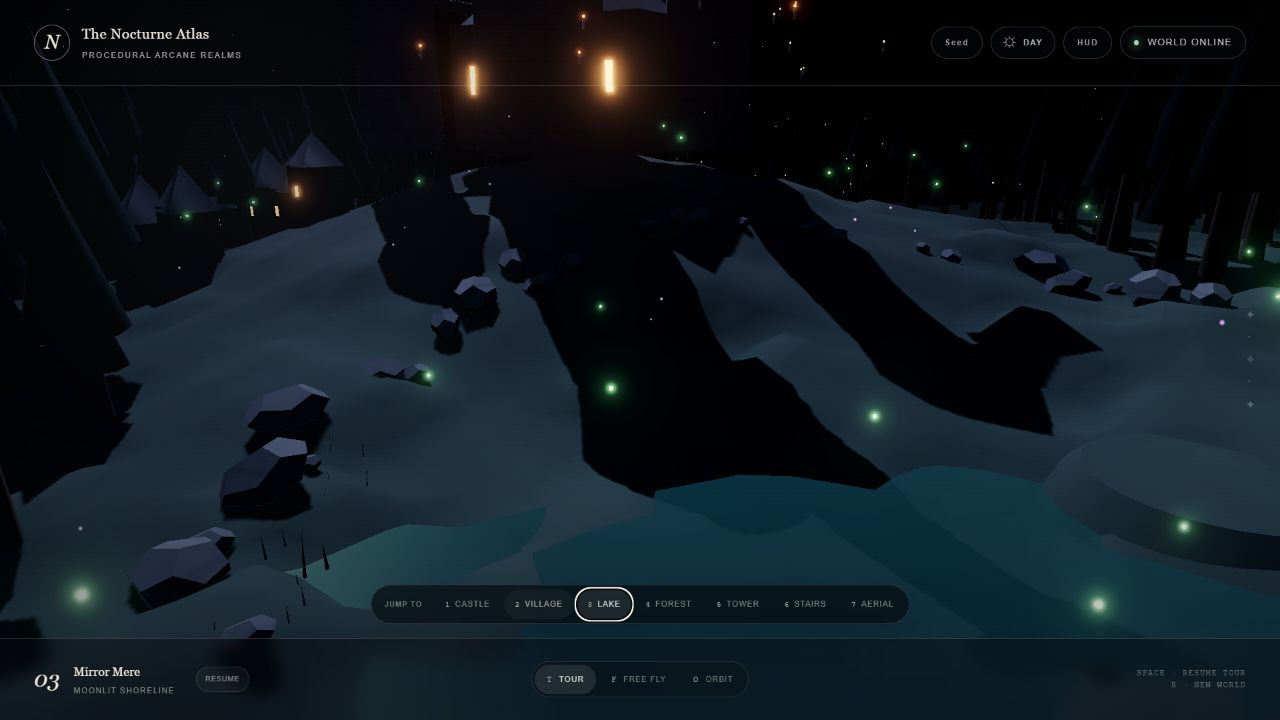
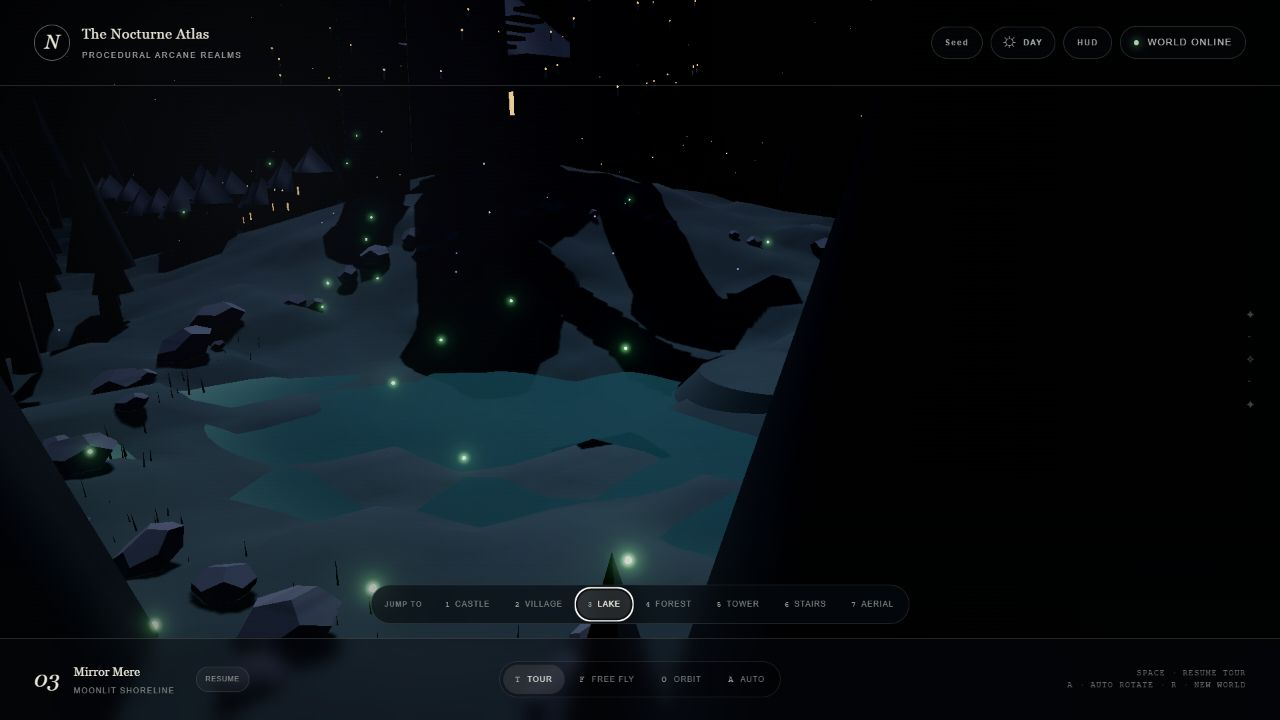
Polish landmark presentation cameras

diff --git a/app/world-core.ts b/app/world-core.ts
@@ -54,7 +54,7 @@ export interface WorldValidationReport {
 export interface WorldManifest {
   seed: string;
   seedHash: number;
-  generatorVersion: '1.6.0';
+  generatorVersion: '1.7.0';
   manifestHash: string;
   quality: QualityTier;
   towerHeights: number[];
@@ -132,10 +132,10 @@ export function createWorldManifest(seedText: string, quality: QualityTier): Wor
   const seedHash = hashSeed(seed);
   const cameraLandmarks: WorldManifest['cameraLandmarks'] = [
     { id: 'castle', label: 'Castle of Veyra', subtitle: 'Central highlands', position: [34 + camera() * 5, 27 + camera() * 3, -44 + camera() * 5], target: [-7, 11, -4] },
-    { id: 'village', label: 'Lumen Row', subtitle: 'Village approach', position: [-57 + camera() * 5, 13 + camera() * 2, 34 + camera() * 4], target: [-31, 4, 13] },
+    { id: 'village', label: 'Lumen Row', subtitle: 'Village approach', position: [-60 + camera() * 4, 21 + camera() * 2, 10 + camera() * 3], target: [-31, 4, 13] },
     { id: 'lake', label: 'Mirror Mere', subtitle: 'Moonlit shoreline', position: [53 + camera() * 5, 10 + camera() * 2, 46 + camera() * 4], target: [28, -0.5, 18] },
-    { id: 'forest', label: 'The Thorn Veil', subtitle: 'Ancient forest edge', position: [34 + camera() * 6, 15 + camera() * 3, -55 + camera() * 5], target: [15, 4, -43] },
-    { id: 'tower', label: 'Astral Spire', subtitle: 'Upper observatory', position: [-24 + camera() * 4, 31 + camera() * 3, -15 + camera() * 4], target: [-7, 18, -4] },
+    { id: 'forest', label: 'The Thorn Veil', subtitle: 'Ancient forest edge', position: [49 + camera() * 5, 25 + camera() * 2, -61 + camera() * 4], target: [15, 5, -38] },
+    { id: 'tower', label: 'Astral Spire', subtitle: 'Upper observatory', position: [-39 + camera() * 4, 37 + camera() * 3, 11 + camera() * 3], target: [-9, 16, -3] },
   ].map((landmark) => ({
     ...landmark,
     position: [
@@ -148,7 +148,7 @@ export function createWorldManifest(seedText: string, quality: QualityTier): Wor
   const landmarkById = Object.fromEntries(cameraLandmarks.map((landmark) => [landmark.id, landmark])) as Record<WorldManifest['cameraLandmarks'][number]['id'], WorldManifest['cameraLandmarks'][number]>;
   const validationViews: ValidationView[] = [
     { id: 'castle-hero', label: 'Castle Hero', subtitle: 'Silhouette and warm windows', position: [...landmarkById.castle.position], target: [...landmarkById.castle.target] },
-    { id: 'courtyard-stair', label: 'Moving Stair', subtitle: 'Courtyard connection study', position: [-24 + validationCamera() * 3, 18 + validationCamera() * 2, 18 + validationCamera() * 3], target: [-5, 9, 3] },
+    { id: 'courtyard-stair', label: 'Moving Stair', subtitle: 'Courtyard connection study', position: [-29 + validationCamera() * 3, 28 + validationCamera() * 2, 34 + validationCamera() * 3], target: [2, 18, 3] },
     { id: 'village-approach', label: 'Village Approach', subtitle: 'Road and building alignment', position: [...landmarkById.village.position], target: [...landmarkById.village.target] },
     { id: 'forest-edge', label: 'Forest Edge', subtitle: 'Near and far vegetation', position: [...landmarkById.forest.position], target: [...landmarkById.forest.target] },
     { id: 'lake-shore', label: 'Lake Shore', subtitle: 'Water and shared boundary', position: [...landmarkById.lake.position], target: [...landmarkById.lake.target] },
@@ -210,7 +210,7 @@ export function createWorldManifest(seedText: string, quality: QualityTier): Wor
   const base = {
     seed,
     seedHash,
-    generatorVersion: '1.6.0' as const,
+    generatorVersion: '1.7.0' as const,
     quality,
     towerHeights,
     castleGraph,

diff --git a/tests/world-core.test.ts b/tests/world-core.test.ts
@@ -60,12 +60,34 @@ test('manifest validation rejects a dangling castle route', () => {
 
 test('camera landmarks are deterministic, complete, and terrain-safe', () => {
   const manifest = createWorldManifest('MAGIC-001', 'high');
+  assert.equal(manifest.generatorVersion, '1.7.0');
   assert.deepEqual(manifest.cameraLandmarks.map((landmark) => landmark.id), ['castle', 'village', 'lake', 'forest', 'tower']);
   assert.equal(new Set(manifest.cameraLandmarks.map((landmark) => landmark.label)).size, 5);
   for (const landmark of manifest.cameraLandmarks) {
     assert.ok(landmark.position.every(Number.isFinite));
     const terrain = terrainHeight(landmark.position[0], landmark.position[2], manifest.seedHash);
     assert.ok(landmark.position[1] >= terrain + 6.9);
+  }
+});
+
+test('presentation cameras preserve landmark clearance across regression seeds', () => {
+  for (let seedIndex = 1; seedIndex <= 20; seedIndex += 1) {
+    const manifest = createWorldManifest(`MAGIC-${String(seedIndex).padStart(3, '0')}`, 'medium');
+    const village = manifest.cameraLandmarks.find((landmark) => landmark.id === 'village')!;
+    const forest = manifest.cameraLandmarks.find((landmark) => landmark.id === 'forest')!;
+    const tower = manifest.cameraLandmarks.find((landmark) => landmark.id === 'tower')!;
+    const stairs = manifest.validationViews.find((view) => view.id === 'courtyard-stair')!;
+    const distanceToTarget = (view: { position: number[]; target: number[] }) => Math.hypot(
+      view.position[0] - view.target[0],
+      view.position[1] - view.target[1],
+      view.position[2] - view.target[2],
+    );
+
+    assert.ok(Math.abs(village.position[2] - 13) <= 3.1);
+    assert.ok(village.position[1] >= 21);
+    assert.ok(forest.position[1] >= 25);
+    assert.ok(distanceToTarget(tower) >= 35);
+    assert.ok(distanceToTarget(stairs) >= 42);
   }
 });
 

diff --git a/app/page.tsx b/app/page.tsx
@@ -281,7 +281,7 @@ function createWorld(seedText: string, quality: QualityTier) {
       const distance = minimumDistance + random() * (maximumDistance - minimumDistance);
       x = Math.cos(angle) * distance;
       z = Math.sin(angle) * distance;
-      if ((x - 28) ** 2 + (z - 18) ** 2 >= 1050 && (x + 7) ** 2 + (z + 4) ** 2 >= 800) {
+      if ((x - 28) ** 2 + (z - 18) ** 2 >= 1050 && (x + 7) ** 2 + (z + 4) ** 2 >= 800 && (x + 31) ** 2 + (z - 13) ** 2 >= 676) {
         placementFound = true;
         break;
       }

diff --git a/README.md b/README.md
@@ -4,7 +4,7 @@ An original, seed-driven 3D wizarding world built with Three.js and TypeScript. 
 
 ## Scene gallery
 
-Captured from the deterministic `MAGIC-001` world at Medium quality in night mode. Each image is an actual in-app scene-switch destination; the tour remains paused after every transition.
+Captured from the deterministic `MAGIC-001` world with generator `1.7.0` at Medium quality in night mode. Each image is an actual in-app scene-switch destination; the tour remains paused after every transition.
 
 | 1 · Castle of Veyra | 2 · Lumen Row village |
 | --- | --- |
@@ -55,6 +55,13 @@ npm run dev
 Create a production build with `npm run build`.
 
 Run the deterministic regression suite with `npm test`. It checks manifest repeatability, forked seed streams, twenty fixed seeds, castle-graph connectivity, dangling routes, finite terrain samples, and the ban on `Math.random()` inside generation code.
+
+## Validation evidence
+
+- Seven fixed scene destinations were browser-checked and captured from the current generator; Village, Forest, Tower, and Moving Stair use presentation-clearance camera contracts across twenty regression seeds.
+- Day/night transition, automatic orbit, mouse drag, and wheel zoom were exercised in the local WebGL experience. Touch handling shares the tested orbit rotation and zoom constraints and adds one-finger drag plus two-finger pinch input.
+- The automated suite contains 24 deterministic, lifecycle, shader, environment, camera, and presentation tests. Production build and lint complete without errors.
+- Medium quality stays within the Phase 1 draw-call budget in sampled views; the current local sample reports 146 draw calls, 55k triangles, and 70 geometries. Final 1080p FPS qualification remains hardware-dependent and should be measured on the intended GPU without browser-automation throttling.
 
 ## Implementation notes
 
